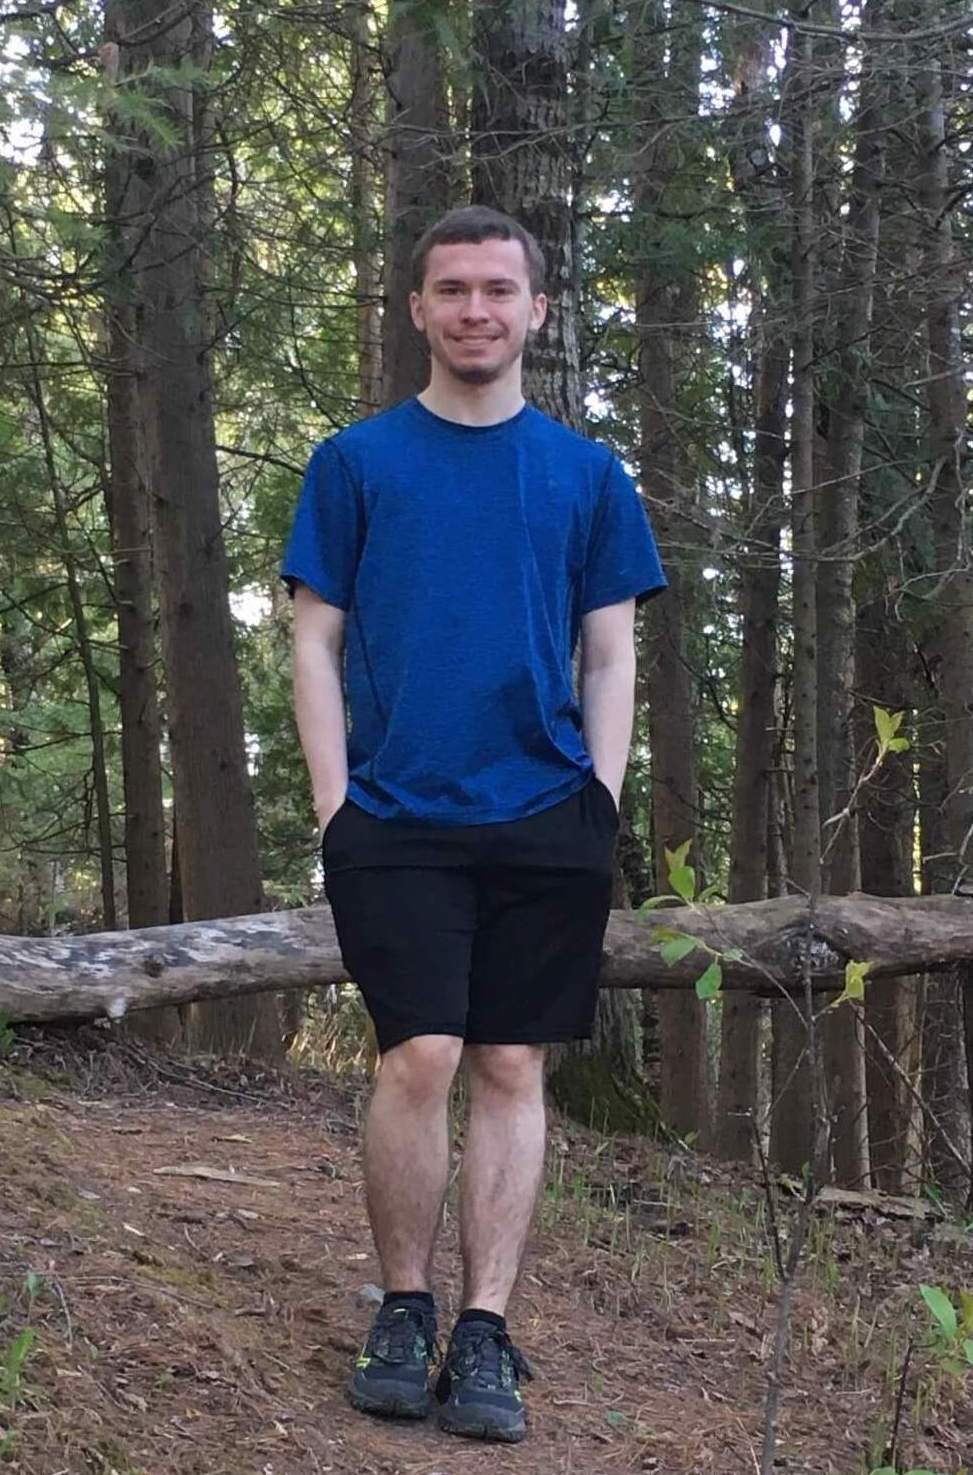
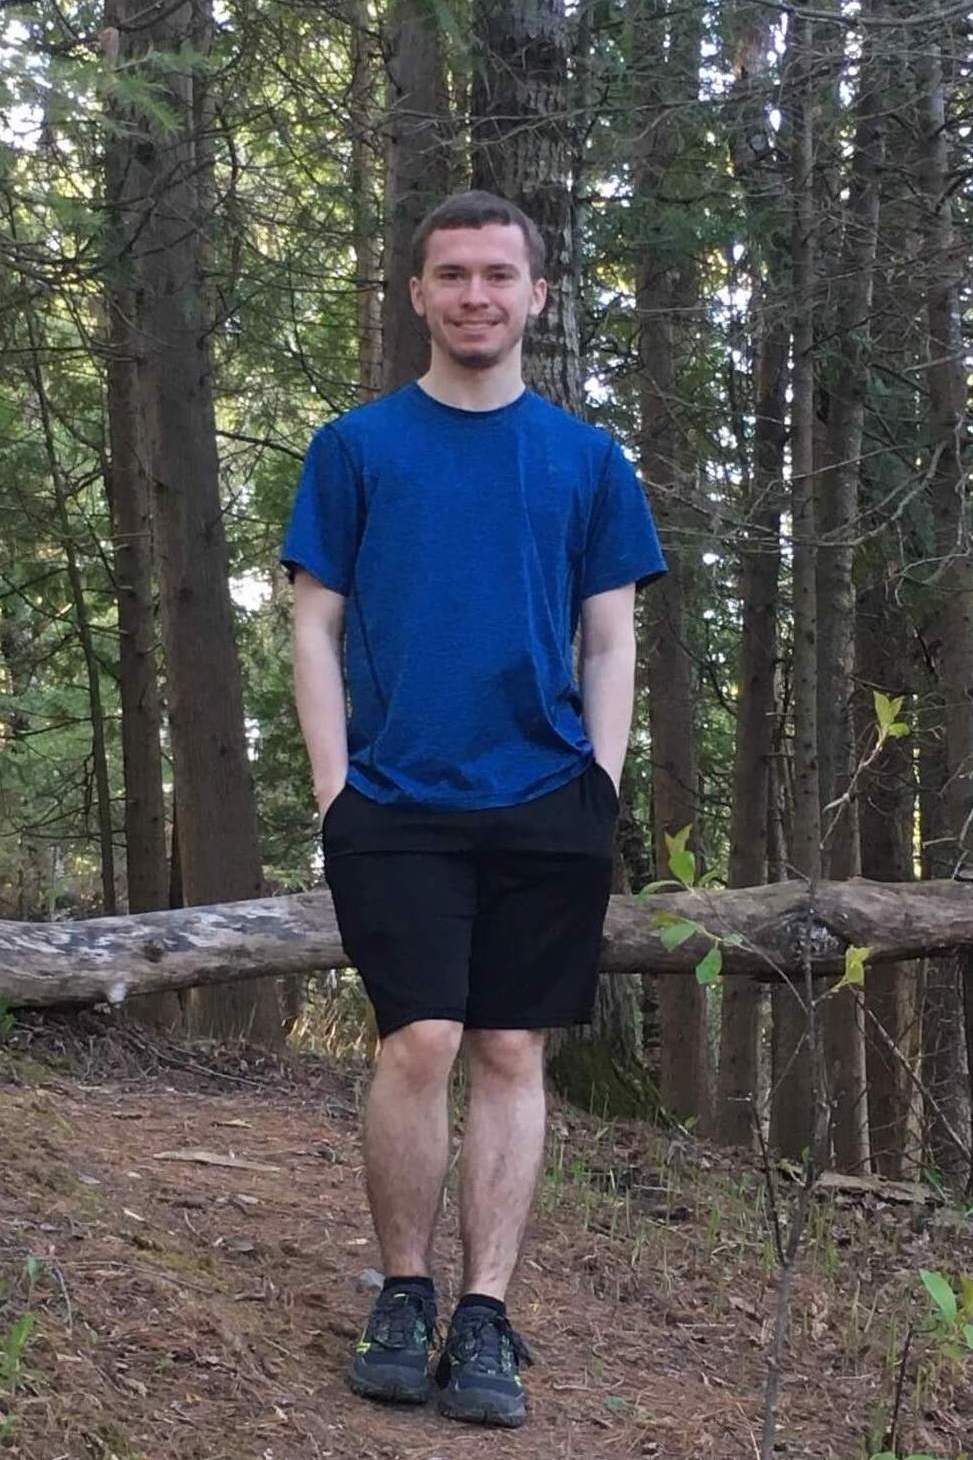
feat: set aspect ratios on home images

Changed region(s): [[0.0, 0.0, 1.0, 0.9555], [0.8325, 0.7397, 0.8633, 0.7705], [0.5858, 0.339, 0.6166, 0.3699]]

diff --git a/src/pages/index.vue b/src/pages/index.vue
@@ -56,6 +56,7 @@
   img {
     width: 320px;
     max-width: 60vw;
+    aspect-ratio: 2 / 3;
   }
   @media screen and (max-width: 670px) {
     flex-direction: column;

diff --git a/src/components/SocialLinks.vue b/src/components/SocialLinks.vue
@@ -85,6 +85,7 @@
 
     img {
       height: 70px;
+      aspect-ratio: 1 / 1;
     }
 
     h3 {
